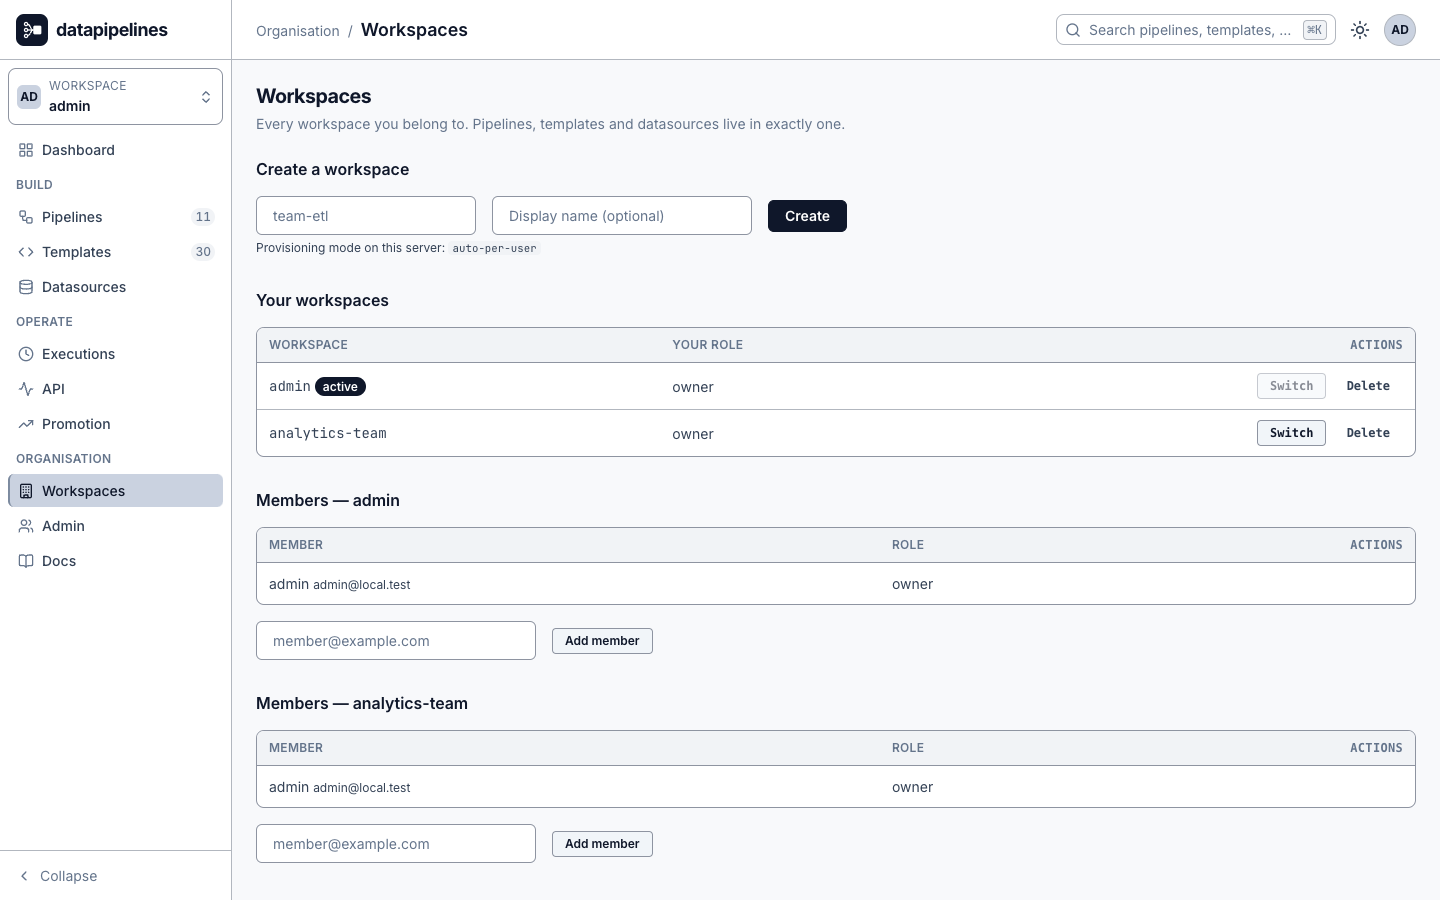
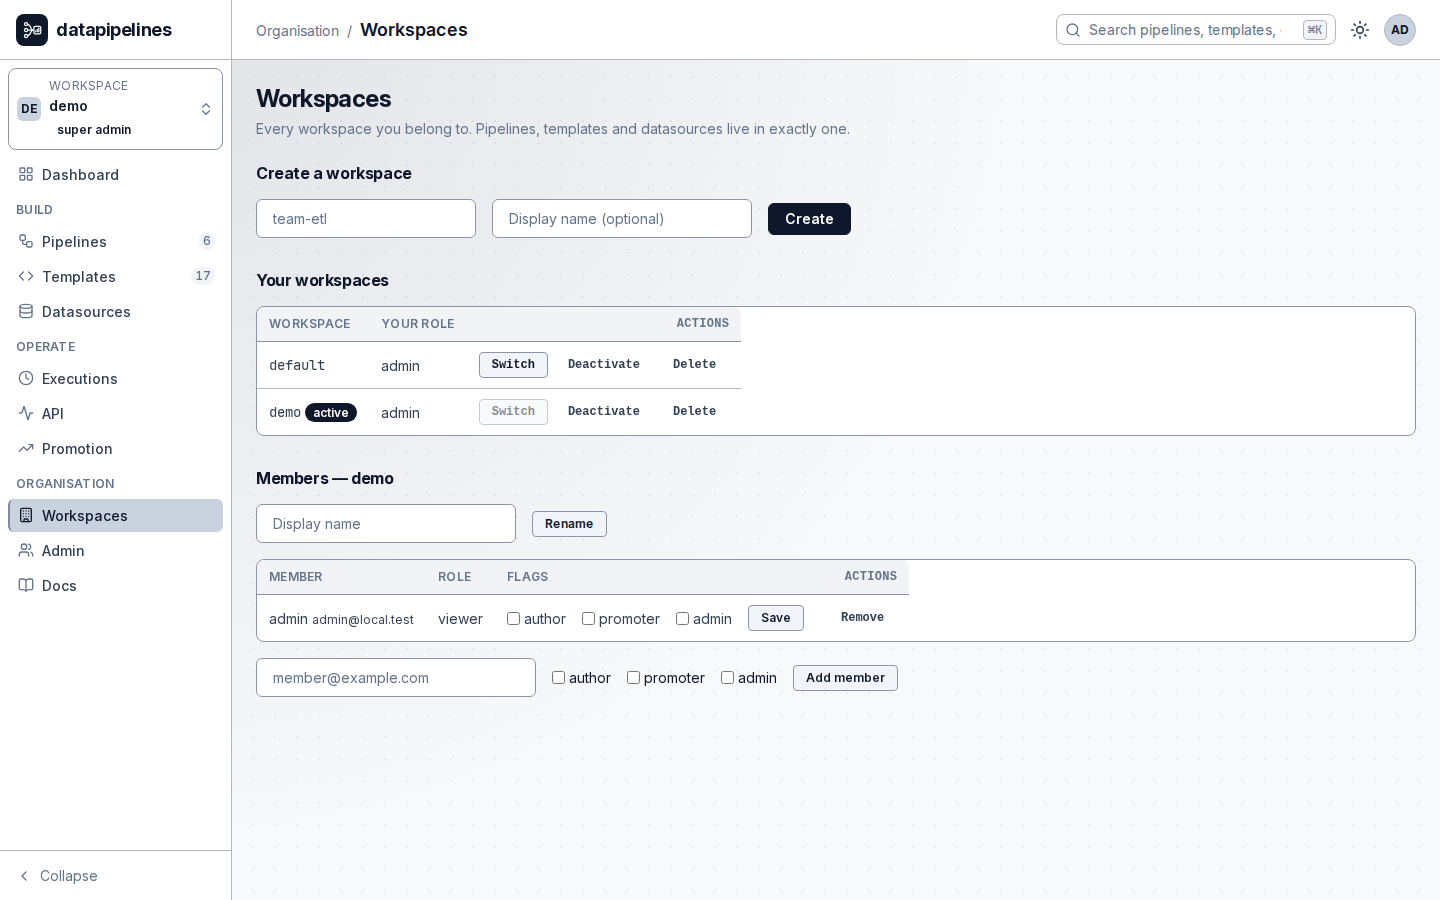
feat(site): the real application captures go on the page — the home strip, the three application frames, the gallery
The homepage carries a strip under the hero (Inside the product): the editor
hero, the execution detail, the node inspector and the API section, each in
the frame chrome with a one-line caption, linking to the gallery.

/how-it-works#application fills the three reserved frames with real captures
— #shot-pipeline takes editor-hero.png (the collapsed rail gives the 18-node
canvas room and keeps the pipeline name whole; graph-cards.png's expanded rail
crowds the frame) — and adds a two-column gallery below holding every
remaining shot, failure-detail.png captioned as a deliberately failing
pipeline. workspaces.png is re-taken on this lane's own throwaway stack
(lane-scoped compose project and volumes) with a neutral bootstrap-admin
member list and the current brand mark.

Every img names a packaged /site/img file, declares its intrinsic size
(height:auto keeps the ratio while shrinking), describes the screen in its
alt, and lazy-loads except the strip's lead. The strips are tokened CSS in
site.css; the chrome bundle is regenerated.

diff --git a/modules/web/src/main/resources/templates/site/how-it-works.html b/modules/web/src/main/resources/templates/site/how-it-works.html
@@ -159,31 +159,85 @@
   </section>
 
   <!-- ============================ INSIDE THE APPLICATION ============================ -->
-  <!--/* 145 §6: three labelled placeholders reserved for real captures after the acceptance
-       testing — the pipeline canvas, the execution results, the draft/release workflow. No
-       fabricated screen; the recorded run itself is shown further down the page. */-->
+  <!--/* 169: the three reserved frames hold real captures now, and every remaining shot the
+       driver produces sits in the gallery below. The rule (ui-screens §4.15, the 145
+       handback): nothing a reader could mistake for a screenshot is illustrated, composited
+       or retouched — the captures come from `./gradlew siteShots`, which photographs a real
+       demo deployment and skips a screen that renders broken. */-->
   <section class="section border" id="application" aria-labelledby="application-title">
     <div class="container">
       <div class="section-title">
         <p class="eyebrow">Inside the application</p>
         <h2 id="application-title">See the work behind the result.</h2>
-        <p>These spaces will show the real pipeline canvas, execution results and release workflow after testing is complete.</p>
+        <p>Real screens, photographed from a running demo deployment — the pipeline as it is built, the result as it is checked, and the release a person approves.</p>
       </div>
       <div class="media-gallery">
         <figure class="media-frame" id="shot-pipeline">
-          <div class="media-bar"><span class="media-dots" aria-hidden="true">● ● ●</span><span>Inside the application</span><span class="tag">Screenshot placeholder</span></div>
-          <div class="media-canvas"><div class="media-symbol" aria-hidden="true">&#9639;</div><h3>Read the pipeline.</h3><p>Application capture coming after testing</p></div>
-          <figcaption>Pipeline canvas: source connections, dependencies and the SQL behind each step.</figcaption>
+          <div class="media-bar"><span class="media-dots" aria-hidden="true">● ● ●</span><span>Pipeline editor</span><span class="tag">Screenshot</span></div>
+          <img src="/site/img/editor-hero.png" width="1440" height="1000" loading="lazy" alt="The pipeline editor after a completed run: node cards and dependencies on the canvas, the results dock open below.">
+          <figcaption>The pipeline canvas after a run: source connections, dependencies and the returned rows docked below.</figcaption>
         </figure>
         <figure class="media-frame" id="shot-results">
-          <div class="media-bar"><span class="media-dots" aria-hidden="true">● ● ●</span><span>Inside the application</span><span class="tag">Screenshot placeholder</span></div>
-          <div class="media-canvas"><div class="media-symbol" aria-hidden="true">&#9639;</div><h3>Inspect the result.</h3><p>Application capture coming after testing</p></div>
-          <figcaption>Execution results: returned rows, node timings and visible failure details.</figcaption>
+          <div class="media-bar"><span class="media-dots" aria-hidden="true">● ● ●</span><span>Execution detail</span><span class="tag">Screenshot</span></div>
+          <img src="/site/img/execution-result.png" width="1440" height="900" loading="lazy" alt="The execution detail page: a SUCCESS badge and a Node Stats table of per-node row counts and durations.">
+          <figcaption>The execution detail: the SUCCESS badge, per-node row counts and durations.</figcaption>
         </figure>
         <figure class="media-frame" id="shot-release">
-          <div class="media-bar"><span class="media-dots" aria-hidden="true">● ● ●</span><span>Inside the application</span><span class="tag">Screenshot placeholder</span></div>
-          <div class="media-canvas"><div class="media-symbol" aria-hidden="true">&#9639;</div><h3>Review before release.</h3><p>Application capture coming after testing</p></div>
+          <div class="media-bar"><span class="media-dots" aria-hidden="true">● ● ●</span><span>Release step</span><span class="tag">Screenshot</span></div>
+          <img src="/site/img/release-step.png" width="1440" height="900" loading="lazy" alt="The release dialog on a draft pipeline: its template pins, a configured check passing, and the version the release would lock.">
           <figcaption>Release workflow: the draft, configured checks and the version your team approves.</figcaption>
+        </figure>
+      </div>
+      <div class="shot-gallery">
+        <figure class="media-frame">
+          <div class="media-bar"><span class="media-dots" aria-hidden="true">● ● ●</span><span>Pipeline editor</span><span class="tag">Screenshot</span></div>
+          <img src="/site/img/graph-cards.png" width="1440" height="900" loading="lazy" alt="The same editor with the workspace rail open: the graph of node cards and the results dock beneath.">
+          <figcaption>The same run with the workspace rail open — cards, dependencies and the fit-to-view controls.</figcaption>
+        </figure>
+        <figure class="media-frame">
+          <div class="media-bar"><span class="media-dots" aria-hidden="true">● ● ●</span><span>Datasources</span><span class="tag">Screenshot</span></div>
+          <img src="/site/img/datasources.png" width="1440" height="900" loading="lazy" alt="The datasource registry table listing registered databases with their dialects and their latest connection test outcomes.">
+          <figcaption>The datasource registry, with the result of each connection's latest test.</figcaption>
+        </figure>
+        <figure class="media-frame">
+          <div class="media-bar"><span class="media-dots" aria-hidden="true">● ● ●</span><span>dp-lake</span><span class="tag">Screenshot</span></div>
+          <img src="/site/img/datasource-lake.png" width="1440" height="900" loading="lazy" alt="A dp-lake datasource's registry page with the namespace tree expanded to its Parquet tables.">
+          <figcaption>A lake datasource's registry as a namespace tree, expanded to its tables.</figcaption>
+        </figure>
+        <figure class="media-frame">
+          <div class="media-bar"><span class="media-dots" aria-hidden="true">● ● ●</span><span>Templates</span><span class="tag">Screenshot</span></div>
+          <img src="/site/img/template-explorer.png" width="1440" height="900" loading="lazy" alt="The template explorer: the folder tree on the left, the selected template's version list on the right.">
+          <figcaption>The template explorer — folders on the left, the selected template's versions on the right.</figcaption>
+        </figure>
+        <figure class="media-frame">
+          <div class="media-bar"><span class="media-dots" aria-hidden="true">● ● ●</span><span>Templates</span><span class="tag">Screenshot</span></div>
+          <img src="/site/img/template-used-by.png" width="1440" height="900" loading="lazy" alt="A shared template's detail with its version list and the pipelines pinning each version.">
+          <figcaption>A shared template's version list, with the pipelines pinning each version.</figcaption>
+        </figure>
+        <figure class="media-frame">
+          <div class="media-bar"><span class="media-dots" aria-hidden="true">● ● ●</span><span>API keys</span><span class="tag">Screenshot</span></div>
+          <img src="/site/img/keys.png" width="1440" height="900" loading="lazy" alt="The new-key modal open over the keys table: kind first, then scope, name and expiry.">
+          <figcaption>Minting a key — kind first, then scope, name and expiry.</figcaption>
+        </figure>
+        <figure class="media-frame">
+          <div class="media-bar"><span class="media-dots" aria-hidden="true">● ● ●</span><span>Executions</span><span class="tag">Screenshot</span></div>
+          <img src="/site/img/executions.png" width="1440" height="900" loading="lazy" alt="The execution history table listing past runs with their status and duration, newest first.">
+          <figcaption>The execution history — every run, its status and duration, newest first.</figcaption>
+        </figure>
+        <figure class="media-frame">
+          <div class="media-bar"><span class="media-dots" aria-hidden="true">● ● ●</span><span>Dark shell</span><span class="tag">Screenshot</span></div>
+          <img src="/site/img/shell-dark.png" width="1440" height="900" loading="lazy" alt="The pipelines list rendered in the dark theme.">
+          <figcaption>The same workspace in the dark theme, one setting away.</figcaption>
+        </figure>
+        <figure class="media-frame">
+          <div class="media-bar"><span class="media-dots" aria-hidden="true">● ● ●</span><span>Workspaces</span><span class="tag">Screenshot</span></div>
+          <img src="/site/img/workspaces.png" width="1440" height="900" loading="lazy" alt="The workspaces page listing workspaces and each workspace's members with their roles.">
+          <figcaption>Workspaces and members — the boundaries around who sees what.</figcaption>
+        </figure>
+        <figure class="media-frame">
+          <div class="media-bar"><span class="media-dots" aria-hidden="true">● ● ●</span><span>Failure detail</span><span class="tag">Screenshot</span></div>
+          <img src="/site/img/failure-detail.png" width="1440" height="900" loading="lazy" alt="A deliberately failing pipeline in the editor: the failed node on the canvas and the full error chain in the Errors tab.">
+          <figcaption>A deliberately failing pipeline — the error chain on the record, not hidden.</figcaption>
         </figure>
       </div>
     </div>

diff --git a/modules/web/src/main/resources/templates/site/index.html b/modules/web/src/main/resources/templates/site/index.html
@@ -127,6 +127,46 @@
     </div>
   </section>
 
+  <!-- ============================ INSIDE THE PRODUCT ============================ -->
+  <!--/* 169: the real application captures as a home-page strip. Every picture is a driver
+       photograph of a running demo deployment (ui-screens §4.15 — the screenshots are a
+       command, not a folder); nothing a reader could mistake for a screenshot is
+       illustrated, composited or retouched. The gallery with every remaining capture is
+       /how-it-works#application. The first image loads eagerly (it sits just under the
+       fold on most screens); the rest are lazy. */-->
+  <section class="section" id="product-strip" aria-labelledby="strip-title">
+    <div class="container">
+      <div class="section-title">
+        <p class="eyebrow">Inside the product</p>
+        <h2 id="strip-title">Real screens from a running deployment.</h2>
+        <p>Photographed by the project's screenshot command — never drawn, composited or retouched.</p>
+      </div>
+      <div class="shot-gallery">
+        <figure class="media-frame">
+          <div class="media-bar"><span class="media-dots" aria-hidden="true">● ● ●</span><span>Pipeline editor</span><span class="tag">Screenshot</span></div>
+          <img src="/site/img/editor-hero.png" width="1440" height="1000" alt="The pipeline editor after a completed run: node cards and dependencies on the canvas, the results dock open below.">
+          <figcaption>The pipeline editor after a run — every node's state on the canvas, the returned rows docked below.</figcaption>
+        </figure>
+        <figure class="media-frame">
+          <div class="media-bar"><span class="media-dots" aria-hidden="true">● ● ●</span><span>Execution detail</span><span class="tag">Screenshot</span></div>
+          <img src="/site/img/execution-result.png" width="1440" height="900" loading="lazy" alt="The execution detail page: a SUCCESS badge and a Node Stats table of per-node row counts and durations.">
+          <figcaption>The execution detail: the SUCCESS badge, per-node row counts and durations.</figcaption>
+        </figure>
+        <figure class="media-frame">
+          <div class="media-bar"><span class="media-dots" aria-hidden="true">● ● ●</span><span>Node details</span><span class="tag">Screenshot</span></div>
+          <img src="/site/img/node-inspector.png" width="1440" height="900" loading="lazy" alt="A node's details pane with the rendered SQL behind the step, resolved from its pinned template.">
+          <figcaption>A node's details: the SQL behind the step, rendered from its pinned template.</figcaption>
+        </figure>
+        <figure class="media-frame">
+          <div class="media-bar"><span class="media-dots" aria-hidden="true">● ● ●</span><span>API</span><span class="tag">Screenshot</span></div>
+          <img src="/site/img/api-console.png" width="1440" height="900" loading="lazy" alt="The API screen: keys of each kind, the published endpoints and the MCP server connection card.">
+          <figcaption>The API section: keys by kind, the published endpoints and the MCP connection.</figcaption>
+        </figure>
+      </div>
+      <p class="strip-more"><a class="text-link" th:href="@{/how-it-works#application}">Every screen, on the how-it-works page <span aria-hidden="true">&rarr;</span></a></p>
+    </div>
+  </section>
+
   <!-- ============================ THE VIDEO SLOT ============================ -->
   <!--/* 145 §6: a compact slot reserved for the owner's real recording after testing —
        inputs, execution, returned rows. A labelled placeholder with no play control,

diff --git a/modules/web/src/main/resources/static/site/css/site-chrome.css b/modules/web/src/main/resources/static/site/css/site-chrome.css
@@ -2408,6 +2408,45 @@ code {
   }
 }
 
+/* Real application captures inside a frame (169): the picture IS the canvas — full
+   width, its declared dimensions honoured for spacing (height:auto keeps the
+   intrinsic ratio while shrinking), never wider than its frame. */
+.media-frame img {
+  display: block;
+  width: 100%;
+  height: auto;
+  max-width: 100%;
+  background: var(--site-surface);
+}
+
+/* The capture strips: the home page's under-hero strip and the gallery under the
+   three application frames. Two columns from 64rem, one below — captions stay
+   under each picture at every width, and the frame chrome carries the label. */
+.shot-gallery {
+  display: grid;
+  grid-template-columns: minmax(0, 1fr);
+  gap: var(--space-5);
+  margin-top: var(--space-8);
+}
+
+.shot-gallery .media-bar .tag {
+  margin-left: auto;
+}
+
+.strip-more {
+  margin: var(--space-5) 0 0;
+}
+
+@media (min-width: 64rem) {
+  .shot-gallery {
+    grid-template-columns: repeat(2, minmax(0, 1fr));
+  }
+
+  .shot-gallery .media-bar .tag {
+    margin-left: 0;
+  }
+}
+
 /* The learned-context example: two illustrative facts, one asserted, one observed. */
 .knowledge .grid-2 {
   align-items: center;

diff --git a/modules/web/src/main/resources/static/site/css/site.css b/modules/web/src/main/resources/static/site/css/site.css
@@ -1681,6 +1681,45 @@ code {
   }
 }
 
+/* Real application captures inside a frame (169): the picture IS the canvas — full
+   width, its declared dimensions honoured for spacing (height:auto keeps the
+   intrinsic ratio while shrinking), never wider than its frame. */
+.media-frame img {
+  display: block;
+  width: 100%;
+  height: auto;
+  max-width: 100%;
+  background: var(--site-surface);
+}
+
+/* The capture strips: the home page's under-hero strip and the gallery under the
+   three application frames. Two columns from 64rem, one below — captions stay
+   under each picture at every width, and the frame chrome carries the label. */
+.shot-gallery {
+  display: grid;
+  grid-template-columns: minmax(0, 1fr);
+  gap: var(--space-5);
+  margin-top: var(--space-8);
+}
+
+.shot-gallery .media-bar .tag {
+  margin-left: auto;
+}
+
+.strip-more {
+  margin: var(--space-5) 0 0;
+}
+
+@media (min-width: 64rem) {
+  .shot-gallery {
+    grid-template-columns: repeat(2, minmax(0, 1fr));
+  }
+
+  .shot-gallery .media-bar .tag {
+    margin-left: 0;
+  }
+}
+
 /* The learned-context example: two illustrative facts, one asserted, one observed. */
 .knowledge .grid-2 {
   align-items: center;
